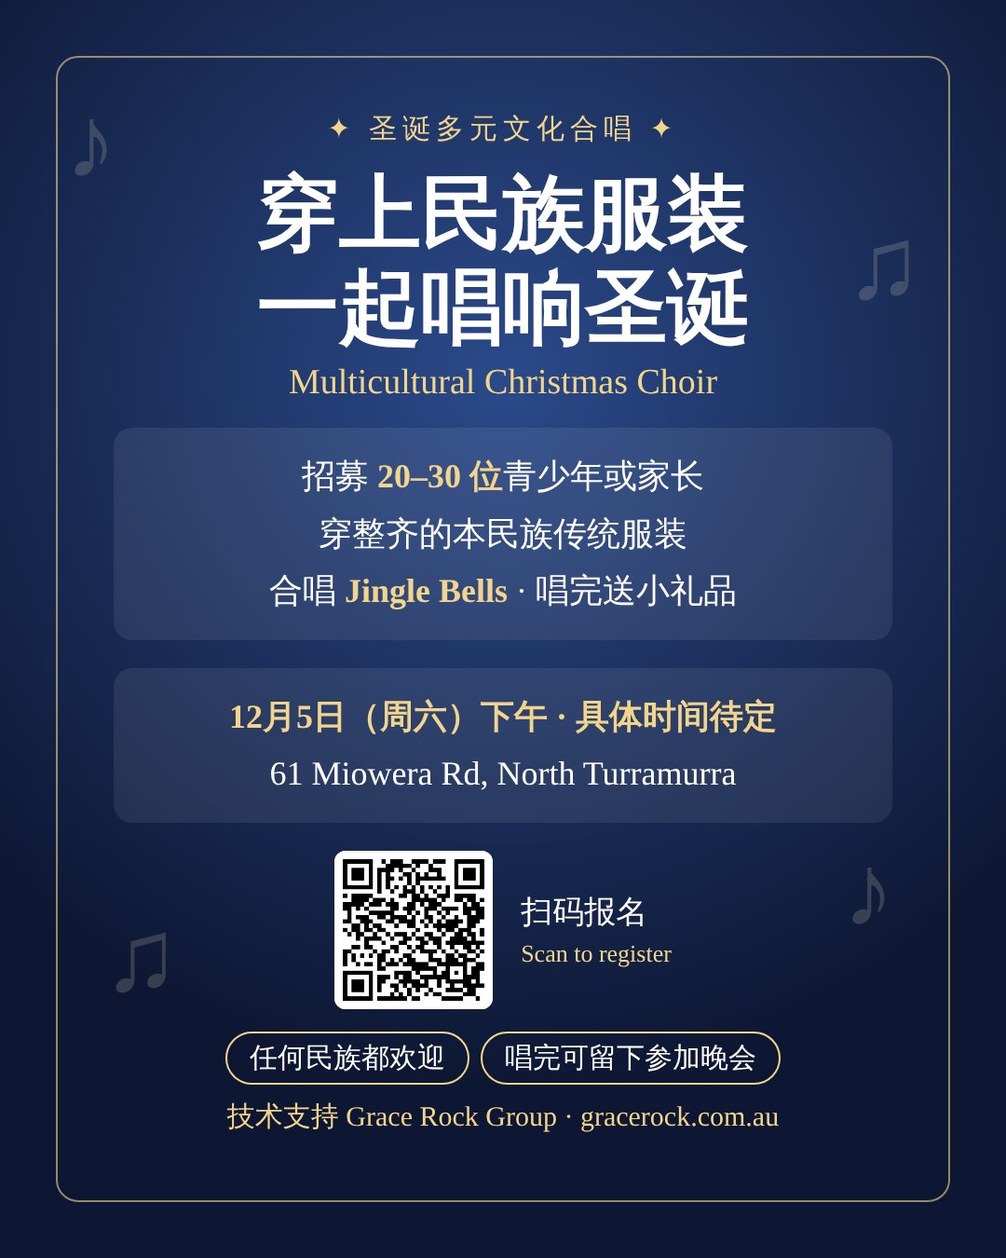
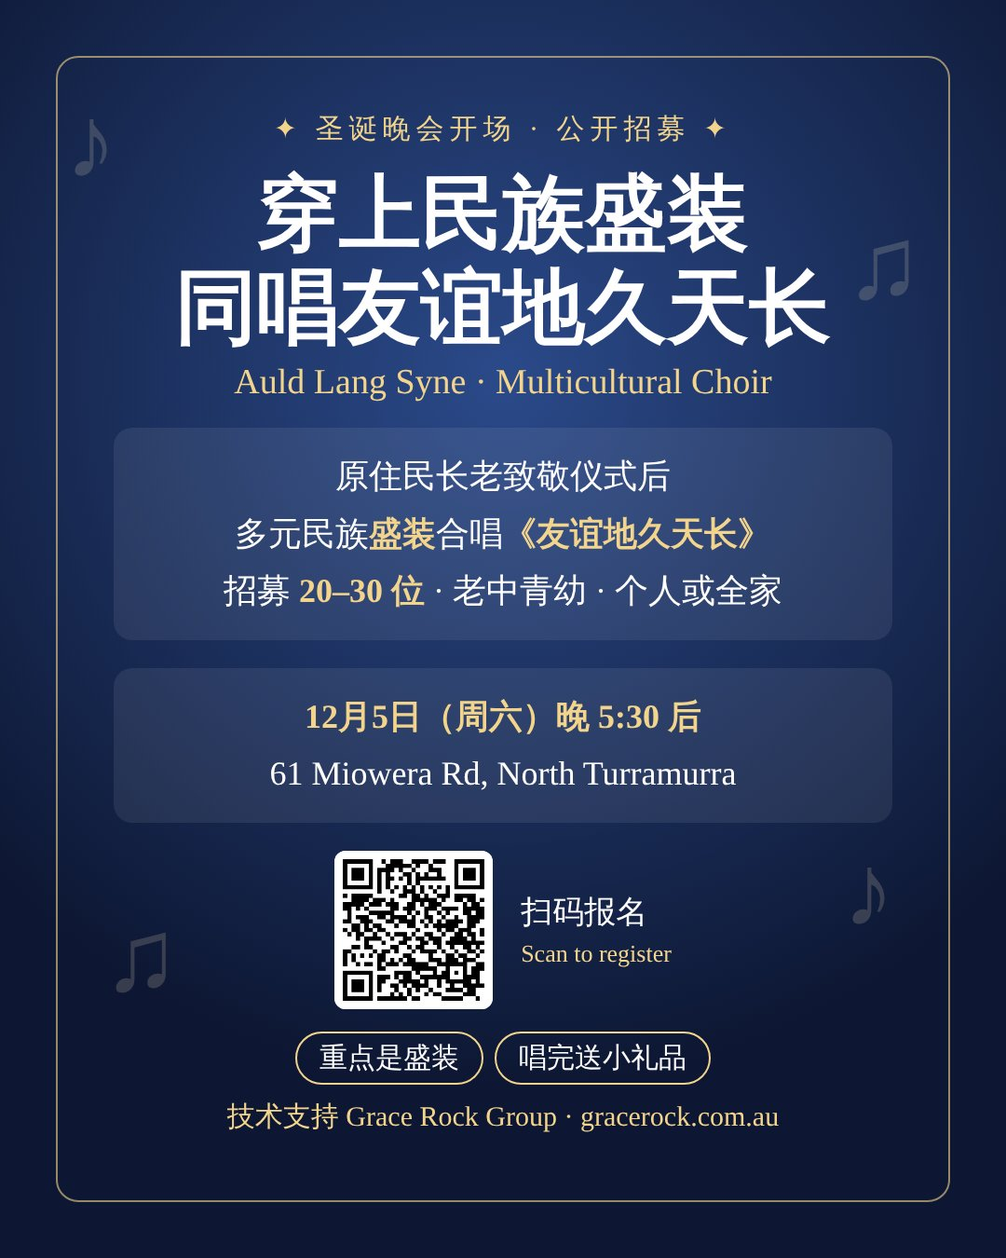
Choir: evening opening (Welcome to Country + Auld Lang Syne in traditional dress, all ages); add day programme to evening page (#87)
Claude-Session: https://claude.ai/code/session_0184zThUVwYNM5dNQvGb2R9g

diff --git a/preview/events/christmas-choir-en.html b/preview/events/christmas-choir-en.html
@@ -1,17 +1,17 @@
 <!DOCTYPE html>
 <html lang="en">
 <head>
-<meta charset="utf-8"><link rel="alternate" hreflang="zh" href="christmas-choir.html"><link rel="alternate" hreflang="en" href="christmas-choir-en.html"><script src="../../lang.js"></script><link rel="manifest" href="/manifest.webmanifest"><meta name="theme-color" content="#6b4c9a"><link rel="icon" type="image/png" href="/icons/favicon-32.png"><link rel="apple-touch-icon" href="/icons/apple-touch-icon.png"><meta name="apple-mobile-web-app-capable" content="yes"><meta name="mobile-web-app-capable" content="yes"><meta name="apple-mobile-web-app-title" content="雅实"><script src="/pwa.js" defer></script><script src="../../share.js" defer></script>
+<meta charset="utf-8"><link rel="alternate" hreflang="en" href="christmas-choir.html"><link rel="alternate" hreflang="en" href="christmas-choir-en.html"><script src="../../lang.js"></script><link rel="manifest" href="/manifest.webmanifest"><meta name="theme-color" content="#6b4c9a"><link rel="icon" type="image/png" href="/icons/favicon-32.png"><link rel="apple-touch-icon" href="/icons/apple-touch-icon.png"><meta name="apple-mobile-web-app-capable" content="yes"><meta name="mobile-web-app-capable" content="yes"><meta name="apple-mobile-web-app-title" content="雅实"><script src="/pwa.js" defer></script><script src="../../share.js" defer></script>
 <meta name="robots" content="noindex,nofollow">
-<meta name="description" content="Sat 5 Dec, afternoon, North Turramurra. 20–30 young people or parents in neat traditional attire to sing Jingle Bells. Small gift for every singer; stay on for the Christmas evening.">
+<meta name="description" content="Sat 5 Dec from 5:30pm, Glengarry Christmas Celebration, North Turramurra: a Welcome to Country by an Aboriginal Elder, then people of many cultures sing Auld Lang Syne in their finest traditional dress. All ages, individuals or families.">
 <meta property="og:type" content="website">
 <meta property="og:site_name" content="雅实 Grace Rock Group">
-<meta property="og:title" content="Multicultural Christmas Choir · Call for singers in traditional attire">
-<meta property="og:description" content="Sat 5 Dec, afternoon, North Turramurra. 20–30 young people or parents in neat traditional attire to sing Jingle Bells. Small gift for every singer; stay on for the Christmas evening.">
+<meta property="og:title" content="Auld Lang Syne in traditional dress · Christmas opening call-out">
+<meta property="og:description" content="Sat 5 Dec from 5:30pm, Glengarry Christmas Celebration, North Turramurra: a Welcome to Country by an Aboriginal Elder, then people of many cultures sing Auld Lang Syne in their finest traditional dress. All ages, individuals or families.">
 <meta property="og:url" content="https://gracerock.com.au/preview/events/christmas-choir-en.html">
 <meta property="og:image" content="https://gracerock.com.au/preview/assets/glengarry/og.jpg">
 <meta name="viewport" content="width=device-width, initial-scale=1, viewport-fit=cover">
-<title>Multicultural Christmas Choir · Call for singers in traditional attire</title>
+<title>Auld Lang Syne in traditional dress · Christmas opening call-out</title>
 <style>
 :root{--bg:#f8f5fb;--card:#fff;--text:#2a1a1a;--sub:#6f5f5a;--accent:#6b4c9a;--accent-t:#fff;--gold:#b8892f;--line:#e6def0;box-sizing:border-box}
 @media (prefers-color-scheme:dark){:root:not([data-theme="light"]){--bg:#13101a;--card:#1e1a27;--text:#f4ebe4;--sub:#b9a89f;--accent:#b79be6;--accent-t:#fff;--gold:#e0b862;--line:#352d44}}
@@ -70,41 +70,35 @@ form .ck input{width:auto;margin-top:3px}
 </head>
 <body>
 <div class="top">
-  <p class="k">Multicultural Christmas Choir · Open call</p>
-  <h1>Wear your traditional attire<br>and sing in Christmas</h1>
-  <p class="s">Sat 5 Dec · afternoon · North Turramurra</p>
+  <p class="k">Christmas opening · Open call</p>
+  <h1>Wear your finest traditional dress<br>and sing Auld Lang Syne</h1>
+  <p class="s">Sat 5 Dec · from 5:30pm · North Turramurra</p>
 </div>
 <main>
-  <p class="lead">We are inviting <b>20–30</b> young people or parents to sing <b>Jingle Bells</b> together at the Glengarry Christmas Celebration, each in the neat traditional dress of their own culture. Every singer receives a small gift, and everyone is welcome to stay for the Christmas evening.</p>
+  <p class="lead">The Glengarry Christmas Celebration opens with a Welcome to Country by an Aboriginal Elder. Then people of many cultures, each in the <b>finest traditional dress</b> of their own culture, sing <b>Auld Lang Syne</b> together. We are looking for <b>20–30</b> singers: any age from grandparents to little ones, on your own or as a family. The key is your finest dress! Every singer receives a small gift.</p>
 
-  <h2>Programme</h2>
+  <h2>Opening programme</h2>
   <div class="card">
-    <p class="sess">PART 1</p>
-    <h3>Multicultural choir</h3>
-    <div class="row"><span>Time</span><span>Sat 5 Dec, afternoon (time TBC)</span></div>
-    <div class="row"><span>What</span><span>Sing Jingle Bells in traditional attire</span></div>
-    <div class="row"><span>Gift</span><span>A small gift for every singer</span></div>
+    <ul class="steps">
+      <li><b>Welcome to Country</b>From 5:30pm, led by an Aboriginal Elder.</li>
+      <li><b>Multicultural choir in traditional dress</b>Singing Auld Lang Syne together.</li>
+      <li><b>Small gift, then enjoy the evening</b>The celebration runs until 9:00pm with barbecue, snacks & drinks.</li>
+    </ul>
     <img class="poster" style="margin-top:12px" src="../assets/glengarry/choir-poster.jpg" alt="Choir poster" loading="lazy">
-  </div>
-  <div class="card">
-    <p class="sess">PART 2</p>
-    <h3>Glengarry Christmas Celebration</h3>
-    <div class="row"><span>Time</span><span>5:30pm – 9:00pm</span></div>
-    <div class="row"><span>What</span><span>Celebrate, connect, with barbecue, snacks & drinks</span></div>
-    <div class="row"><span>Who</span><span>Singers are welcome to stay</span></div>
-    <img class="poster" style="margin-top:12px" src="../assets/glengarry/poster.jpg" alt="Glengarry Christmas Celebration poster" loading="lazy">
   </div>
   <div class="card">
     <div class="row" style="border-top:0"><span>Venue</span><span><a href="https://www.google.com/maps/search/?api=1&query=61%20Miowera%20Rd%20North%20Turramurra%20NSW%202074" target="_blank" rel="noopener">Glengarry Jinwen Wonderland<br>61 Miowera Rd, North Turramurra NSW 2074 ›</a></span></div>
     <div class="row"><span>Places</span><span>20–30 singers; register soon, places are limited</span></div>
+    <div class="row"><span>Also that day</span><span>Youth activity 1:30–4:30pm<br>(poster coming soon)</span></div>
   </div>
+  <a class="btn ghost" href="glengarry-christmas-en.html">See the full Christmas Celebration details ›</a>
 
   <h2>What we ask</h2>
   <div class="card">
     <ul class="steps">
-      <li><b>Neat traditional dress of your own culture</b>Hanfu, qipao, sari, hanbok, kimono, kilt and more. Every culture is welcome.</li>
-      <li><b>Able or willing to learn Jingle Bells</b>Practice details to follow.</li>
-      <li><b>Be on time and follow the team</b>Arrive on time as advised and follow on-site directions.</li>
+      <li><b>Your finest traditional dress</b>Hanfu, qipao, sari, hanbok, kimono, kilt and more. Every culture is welcome; the grander the better.</li>
+      <li><b>Practise Auld Lang Syne beforehand</b>A practice version link is coming soon.</li>
+      <li><b>Be on time and follow the team</b>Please arrive before 5:30pm.</li>
       <li><b>Under-18s come with a parent</b>A parent or guardian must agree when registering.</li>
     </ul>
   </div>
@@ -112,9 +106,9 @@ form .ck input{width:auto;margin-top:3px}
   <h2>What you get</h2>
   <div class="card">
     <ul class="steps">
-      <li><b>A small gift</b>Collect after the performance.</li>
+      <li><b>A small gift</b>Collect after singing.</li>
       <li><b>Join as a GR volunteer and earn Good Points</b>Tick the box to join as a Grace Rock volunteer and earn Good Points for taking part.</li>
-      <li><b>Stay for the Christmas evening</b>Celebrate with families from many cultures.</li>
+      <li><b>Celebrate Christmas together</b>Stay for the evening and meet families from many cultures.</li>
     </ul>
   </div>
 
@@ -134,13 +128,10 @@ form .ck input{width:auto;margin-top:3px}
     <form id="f">
       <label>Name</label><input name="name" required>
       <label>Phone</label><input name="phone" type="tel" required>
-      <label>Who is singing</label>
-      <select name="who"><option>Young person + parent</option><option>Adult</option></select>
-      <label>Young person’s age (if any)</label><input name="age">
-      <label>Culture / attire you plan to wear</label><input name="attire" required>
+      <label>Culture / dress you plan to wear</label><input name="attire" required>
       <label>Number of singers</label><input name="n" type="number" min="1" value="1">
-      <div class="ck"><input type="checkbox" name="pc" id="pc"><label for="pc" style="margin:0">I am the parent/guardian and agree to my child taking part</label></div>
-      <div class="ck"><input type="checkbox" name="stay" id="stay"><label for="stay" style="margin:0">We will stay for the evening celebration</label></div>
+      <label>Ages (e.g. grandpa, mum, 10)</label><input name="ages">
+      <div class="ck"><input type="checkbox" name="pc" id="pc"><label for="pc" style="margin:0">Under-18s coming: I am the parent/guardian, I agree and will attend</label></div>
       <div class="ck"><input type="checkbox" name="vol" id="vol" checked><label for="vol" style="margin:0">Register as a Grace Rock volunteer (earn Good Points)</label></div>
       <div class="ck"><input type="checkbox" name="news" id="news"><label for="news" style="margin:0">Tell me about future events that suit me (unsubscribe any time)</label></div>
       <button class="btn" type="submit">Send registration via WhatsApp</button>
@@ -151,7 +142,7 @@ form .ck input{width:auto;margin-top:3px}
   <h2>Contact</h2>
   <div class="card">
     <p>Choir enquiries: WhatsApp 0410 931 872.</p>
-    <a class="btn ghost" href="https://wa.me/61410931872?text=Hi%2C%20a%20question%20about%20the%205%20Dec%20multicultural%20Christmas%20choir." target="_blank" rel="noopener">Ask on WhatsApp</a>
+    <a class="btn ghost" href="https://wa.me/61410931872?text=Hi%2C%20a%20question%20about%20singing%20Auld%20Lang%20Syne%20in%20traditional%20dress%20on%205%20Dec." target="_blank" rel="noopener">Ask on WhatsApp</a>
   </div>
 
   <footer>© Grace Rock Group · Together, We Flourish</footer>
@@ -159,12 +150,11 @@ form .ck input{width:auto;margin-top:3px}
 <div class="bar"><div><a class="btn" href="#f">🎄 Join the choir</a></div></div>
 <script>
 document.getElementById('f').addEventListener('submit',function(e){e.preventDefault();var d=new FormData(this),L=[];
-L.push('Hi, I would like to join the 5 Dec multicultural Christmas choir (traditional attire)');
-[['name','Name'],['phone','Phone'],['who','Who'],['age','Young person age'],['attire','Culture / attire'],['n','Singers']].forEach(function(k){var v=(d.get(k[0])||'').trim();if(v)L.push(k[1]+'：'+v)});
-L.push('Staying for the evening：'+(d.get('stay')?'Yes':'No'));
+L.push('Hi, I would like to sing Auld Lang Syne in traditional dress at the 5 Dec Christmas opening');
+[['name','Name'],['phone','Phone'],['attire','Culture / dress'],['n','Singers'],['ages','Ages']].forEach(function(k){var v=(d.get(k[0])||'').trim();if(v)L.push(k[1]+'：'+v)});
+L.push('Under-18s coming (parent agrees and attends)：'+(d.get('pc')?'Yes':'No'));
 L.push('Register as GR volunteer (Good Points)：'+(d.get('vol')?'Yes':'No'));
 L.push('Tell me about future events：'+(d.get('news')?'Yes':'No'));
-if(d.get('who')!=='Adult')L.push('Parent/guardian consent：'+(d.get('pc')?'Yes':'No'));
 L.push('（Grace Rock）');
 window.open('https://wa.me/61410931872?text='+encodeURIComponent(L.join('\n')),'_blank');});
 </script>

diff --git a/preview/events/christmas-choir.html b/preview/events/christmas-choir.html
@@ -3,15 +3,15 @@
 <head>
 <meta charset="utf-8"><link rel="alternate" hreflang="zh" href="christmas-choir.html"><link rel="alternate" hreflang="en" href="christmas-choir-en.html"><script src="../../lang.js"></script><link rel="manifest" href="/manifest.webmanifest"><meta name="theme-color" content="#6b4c9a"><link rel="icon" type="image/png" href="/icons/favicon-32.png"><link rel="apple-touch-icon" href="/icons/apple-touch-icon.png"><meta name="apple-mobile-web-app-capable" content="yes"><meta name="mobile-web-app-capable" content="yes"><meta name="apple-mobile-web-app-title" content="雅实"><script src="/pwa.js" defer></script><script src="../../share.js" defer></script>
 <meta name="robots" content="noindex,nofollow">
-<meta name="description" content="12月5日（周六）下午，North Turramurra。招募 20–30 位青少年或家长，穿整齐的本民族服装合唱 Jingle Bells，唱完送小礼品，可留下参加圣诞晚会。">
+<meta name="description" content="12月5日（周六）晚 5:30 后，North Turramurra Glengarry 圣诞晚会开场：原住民长老致敬仪式，接着多元民族盛装合唱《友谊地久天长》。老中青幼都欢迎，个人或全家都可以，重点是盛装。">
 <meta property="og:type" content="website">
 <meta property="og:site_name" content="雅实 Grace Rock Group">
-<meta property="og:title" content="圣诞多元文化合唱 · 招募民族服装青少年和家长">
-<meta property="og:description" content="12月5日（周六）下午，North Turramurra。招募 20–30 位青少年或家长，穿整齐的本民族服装合唱 Jingle Bells，唱完送小礼品，可留下参加圣诞晚会。">
+<meta property="og:title" content="盛装合唱《友谊地久天长》· 圣诞晚会开场招募">
+<meta property="og:description" content="12月5日（周六）晚 5:30 后，North Turramurra Glengarry 圣诞晚会开场：原住民长老致敬仪式，接着多元民族盛装合唱《友谊地久天长》。老中青幼都欢迎，个人或全家都可以，重点是盛装。">
 <meta property="og:url" content="https://gracerock.com.au/preview/events/christmas-choir.html">
 <meta property="og:image" content="https://gracerock.com.au/preview/assets/glengarry/og.jpg">
 <meta name="viewport" content="width=device-width, initial-scale=1, viewport-fit=cover">
-<title>圣诞多元文化合唱 · 招募民族服装青少年和家长</title>
+<title>盛装合唱《友谊地久天长》· 圣诞晚会开场招募</title>
 <style>
 :root{--bg:#f8f5fb;--card:#fff;--text:#2a1a1a;--sub:#6f5f5a;--accent:#6b4c9a;--accent-t:#fff;--gold:#b8892f;--line:#e6def0;box-sizing:border-box}
 @media (prefers-color-scheme:dark){:root:not([data-theme="light"]){--bg:#13101a;--card:#1e1a27;--text:#f4ebe4;--sub:#b9a89f;--accent:#b79be6;--accent-t:#fff;--gold:#e0b862;--line:#352d44}}
@@ -70,41 +70,35 @@ form .ck input{width:auto;margin-top:3px}
 </head>
 <body>
 <div class="top">
-  <p class="k">圣诞多元文化合唱 · 公开招募</p>
-  <h1>穿上民族服装<br>一起唱响圣诞</h1>
-  <p class="s">12月5日（周六）下午 · North Turramurra</p>
+  <p class="k">圣诞晚会开场 · 公开招募</p>
+  <h1>穿上民族盛装<br>同唱《友谊地久天长》</h1>
+  <p class="s">12月5日（周六）晚 5:30 后 · North Turramurra</p>
 </div>
 <main>
-  <p class="lead">我们公开招募 <b>20–30 位</b>青少年或家长，穿整齐的本民族传统服装，在 Glengarry 圣诞庆典上合唱 <b>Jingle Bells</b>，展现多元文化。唱完每人送小礼品，也欢迎留下参加晚上的圣诞晚会。</p>
+  <p class="lead">Glengarry 圣诞晚会将由原住民长老主持开场致敬仪式（Welcome to Country），接着由多元民族的朋友穿上自己民族特色的<b>盛装</b>，一起合唱<b>《友谊地久天长》</b>。我们招募 <b>20–30 位</b>参加者：老中青幼四代同堂、个人或全家都可以，重点是盛装！唱完每人送一份小礼品。</p>
 
-  <h2>活动安排</h2>
+  <h2>开场流程</h2>
   <div class="card">
-    <p class="sess">第一场</p>
-    <h3>多元文化合唱</h3>
-    <div class="row"><span>时间</span><span>12月5日（周六）下午，具体时间待公布</span></div>
-    <div class="row"><span>内容</span><span>穿民族服装合唱 Jingle Bells</span></div>
-    <div class="row"><span>礼品</span><span>唱完每人一份小礼品</span></div>
-    <img class="poster" style="margin-top:12px" src="../assets/glengarry/choir-poster.jpg" alt="合唱招募海报" loading="lazy">
-  </div>
-  <div class="card">
-    <p class="sess">第二场</p>
-    <h3>Glengarry 圣诞晚会</h3>
-    <div class="row"><span>时间</span><span>5:30pm – 9:00pm</span></div>
-    <div class="row"><span>内容</span><span>圣诞庆祝、交流，提供烧烤、小吃和饮料</span></div>
-    <div class="row"><span>参加</span><span>合唱成员唱完可留下参加</span></div>
-    <img class="poster" style="margin-top:12px" src="../assets/glengarry/poster.jpg" alt="Glengarry Christmas Celebration poster" loading="lazy">
+    <ul class="steps">
+      <li><b>原住民长老致敬仪式</b>5:30pm 后，由 Aboriginal 长老主持开场。</li>
+      <li><b>多元民族盛装合唱</b>合唱《友谊地久天长》（Auld Lang Syne）。</li>
+      <li><b>送小礼品，继续参加晚会</b>晚会到 9:00pm，提供烧烤、小吃和饮料。</li>
+    </ul>
+    <img class="poster" style="margin-top:12px" src="../assets/glengarry/choir-poster.jpg" alt="盛装合唱招募海报" loading="lazy">
   </div>
   <div class="card">
     <div class="row" style="border-top:0"><span>地点</span><span><a href="https://www.google.com/maps/search/?api=1&query=61%20Miowera%20Rd%20North%20Turramurra%20NSW%202074" target="_blank" rel="noopener">Glengarry Jinwen Wonderland<br>61 Miowera Rd, North Turramurra NSW 2074 ›</a></span></div>
-    <div class="row"><span>报名</span><span>名额 20–30 位，额满即止，请尽快报名</span></div>
+    <div class="row"><span>名额</span><span>20–30 位，额满即止，请尽快报名</span></div>
+    <div class="row"><span>下午另有</span><span>青少年组活动 1:30–4:30pm<br>（海报即将发布）</span></div>
   </div>
+  <a class="btn ghost" href="glengarry-christmas.html">看圣诞晚会全部信息 ›</a>
 
   <h2>参加要求</h2>
   <div class="card">
     <ul class="steps">
-      <li><b>穿整齐的本民族传统服装</b>汉服、旗袍、纱丽、韩服、和服、苏格兰裙……任何民族都欢迎。</li>
-      <li><b>会唱或愿意学 Jingle Bells</b>练习安排另行通知。</li>
-      <li><b>准时、守秩序</b>按通知时间准时到场，听从现场安排。</li>
+      <li><b>穿自己民族特色的盛装</b>汉服、旗袍、纱丽、韩服、和服、苏格兰裙……任何民族都欢迎，越隆重越好。</li>
+      <li><b>提前练习《友谊地久天长》</b>练习版本链接即将发布。</li>
+      <li><b>准时到场，听从现场安排</b>5:30pm 前到场。</li>
       <li><b>18 岁以下由家长陪同</b>报名时需家长同意。</li>
     </ul>
   </div>
@@ -114,7 +108,7 @@ form .ck input{width:auto;margin-top:3px}
     <ul class="steps">
       <li><b>小礼品</b>唱完现场领取。</li>
       <li><b>成为 GR 义工，得好人分</b>报名时勾选，即登记为 Grace Rock 义工，参加活动可获好人分。</li>
-      <li><b>留下参加圣诞晚会</b>和不同文化的家庭一起过圣诞。</li>
+      <li><b>一起过圣诞</b>唱完继续参加晚会，和不同文化的家庭交朋友。</li>
     </ul>
   </div>
 
@@ -134,13 +128,10 @@ form .ck input{width:auto;margin-top:3px}
     <form id="f">
       <label>姓名</label><input name="name" required>
       <label>电话</label><input name="phone" type="tel" required>
-      <label>参加身份</label>
-      <select name="who"><option>青少年 + 家长</option><option>成人</option></select>
-      <label>青少年年龄（如有）</label><input name="age">
-      <label>民族 / 打算穿的服装</label><input name="attire" required>
+      <label>民族 / 打算穿的盛装</label><input name="attire" required>
       <label>合唱人数</label><input name="n" type="number" min="1" value="1">
-      <div class="ck"><input type="checkbox" name="pc" id="pc"><label for="pc" style="margin:0">我是家长，同意孩子参加</label></div>
-      <div class="ck"><input type="checkbox" name="stay" id="stay"><label for="stay" style="margin:0">唱完留下参加晚会</label></div>
+      <label>年龄段（如：爷爷、妈妈、10岁）</label><input name="ages">
+      <div class="ck"><input type="checkbox" name="pc" id="pc"><label for="pc" style="margin:0">有 18 岁以下成员，我是家长，同意并陪同</label></div>
       <div class="ck"><input type="checkbox" name="vol" id="vol" checked><label for="vol" style="margin:0">注册成为 Grace Rock 义工（得好人分）</label></div>
       <div class="ck"><input type="checkbox" name="news" id="news"><label for="news" style="margin:0">以后有适合我的活动，请通知我（可随时取消）</label></div>
       <button class="btn" type="submit">提交报名（通过 WhatsApp 发送）</button>
@@ -150,8 +141,8 @@ form .ck input{width:auto;margin-top:3px}
 
   <h2>联系</h2>
   <div class="card">
-    <p>合唱招募咨询：WhatsApp 0410 931 872。</p>
-    <a class="btn ghost" href="https://wa.me/61410931872?text=%E6%82%A8%E5%A5%BD%EF%BC%8C%E6%88%91%E6%83%B3%E4%BA%86%E8%A7%A312%E6%9C%885%E6%97%A5%E5%9C%A3%E8%AF%9E%E5%A4%9A%E5%85%83%E6%96%87%E5%8C%96%E5%90%88%E5%94%B1%E6%8B%9B%E5%8B%9F%E3%80%82" target="_blank" rel="noopener">WhatsApp 咨询</a>
+    <p>合唱报名咨询：WhatsApp 0410 931 872。</p>
+    <a class="btn ghost" href="https://wa.me/61410931872?text=%E6%82%A8%E5%A5%BD%EF%BC%8C%E6%88%91%E6%83%B3%E4%BA%86%E8%A7%A312%E6%9C%885%E6%97%A5%E7%9B%9B%E8%A3%85%E5%90%88%E5%94%B1%E3%80%8A%E5%8F%8B%E8%B0%8A%E5%9C%B0%E4%B9%85%E5%A4%A9%E9%95%BF%E3%80%8B%E3%80%82" target="_blank" rel="noopener">WhatsApp 咨询</a>
   </div>
 
   <footer>© Grace Rock Group · 携手同行，共创美好</footer>
@@ -159,12 +150,11 @@ form .ck input{width:auto;margin-top:3px}
 <div class="bar"><div><a class="btn" href="#f">🎄 我要报名合唱</a></div></div>
 <script>
 document.getElementById('f').addEventListener('submit',function(e){e.preventDefault();var d=new FormData(this),L=[];
-L.push('您好，我报名12月5日圣诞多元文化合唱（民族服装）');
-[['name','姓名'],['phone','电话'],['who','参加身份'],['age','青少年年龄'],['attire','民族/服装'],['n','合唱人数']].forEach(function(k){var v=(d.get(k[0])||'').trim();if(v)L.push(k[1]+'：'+v)});
-L.push('留下参加晚会：'+(d.get('stay')?'是':'否'));
+L.push('您好，我报名12月5日圣诞晚会开场盛装合唱《友谊地久天长》');
+[['name','姓名'],['phone','电话'],['attire','民族/盛装'],['n','合唱人数'],['ages','年龄段']].forEach(function(k){var v=(d.get(k[0])||'').trim();if(v)L.push(k[1]+'：'+v)});
+L.push('有18岁以下成员（家长同意并陪同）：'+(d.get('pc')?'是':'否'));
 L.push('注册 GR 义工（得好人分）：'+(d.get('vol')?'是':'否'));
 L.push('以后活动通知我：'+(d.get('news')?'是':'否'));
-if(d.get('who')!=='成人')L.push('家长已同意：'+(d.get('pc')?'是':'否'));
 L.push('（Grace Rock）');
 window.open('https://wa.me/61410931872?text='+encodeURIComponent(L.join('\n')),'_blank');});
 </script>

diff --git a/preview/events/glengarry-christmas.html b/preview/events/glengarry-christmas.html
@@ -89,6 +89,16 @@ form .ck input{width:auto;margin-top:3px}
     <div class="row"><span>报名</span><span>主办方需按人数准备食物，<br>请于 11月22日前报名</span></div>
   </div>
 
+  <h2>当天安排</h2>
+  <div class="card">
+    <ul class="steps">
+      <li><b>下午 1:30–4:30 · 青少年组活动</b>海报即将发布。</li>
+      <li><b>5:30pm 后 · 原住民长老致敬仪式</b>由 Aboriginal 长老主持开场（Welcome to Country）。</li>
+      <li><b>多元民族盛装合唱《友谊地久天长》</b>正在招募盛装合唱者，<a href="christmas-choir.html">点这里报名 ›</a></li>
+      <li><b>圣诞晚会，到 9:00pm</b>烧烤、小吃、饮料，交朋友。</li>
+    </ul>
+  </div>
+
   <h2>活动团队与合作伙伴</h2>
   <div class="card">
     <div class="row"><span>主办</span><span>Glengarry Jinwen Gallery &amp;<br>Aus–China Interchange</span></div>

diff --git a/preview/events/glengarry-christmas-en.html b/preview/events/glengarry-christmas-en.html
@@ -89,6 +89,16 @@ form .ck input{width:auto;margin-top:3px}
     <div class="row"><span>RSVP</span><span>The hosts are catering by numbers;<br>please register by 22 Nov</span></div>
   </div>
 
+  <h2>Programme</h2>
+  <div class="card">
+    <ul class="steps">
+      <li><b>1:30–4:30pm · Youth activity</b>Poster coming soon.</li>
+      <li><b>From 5:30pm · Welcome to Country</b>Opening led by an Aboriginal Elder.</li>
+      <li><b>Auld Lang Syne in traditional dress</b>We are looking for singers. <a href="christmas-choir-en.html">Register here ›</a></li>
+      <li><b>Christmas celebration until 9:00pm</b>Barbecue, snacks, drinks and new friends.</li>
+    </ul>
+  </div>
+
   <h2>Team &amp; partners</h2>
   <div class="card">
     <div class="row"><span>Hosts</span><span>Glengarry Jinwen Gallery &amp;<br>Aus–China Interchange</span></div>
